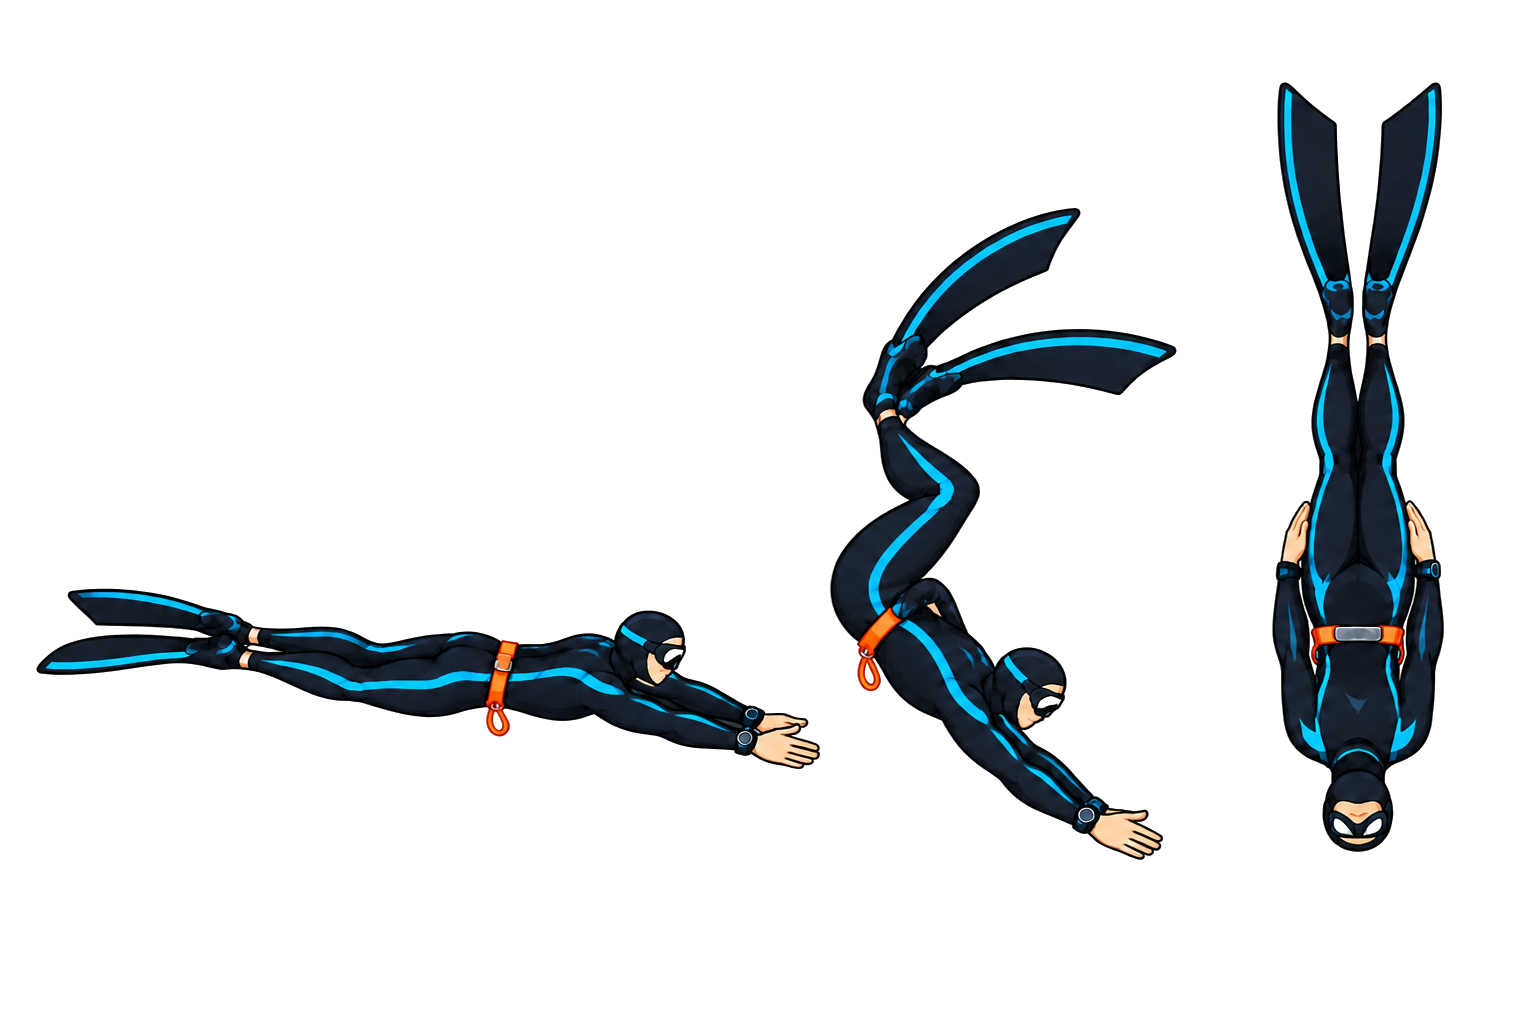
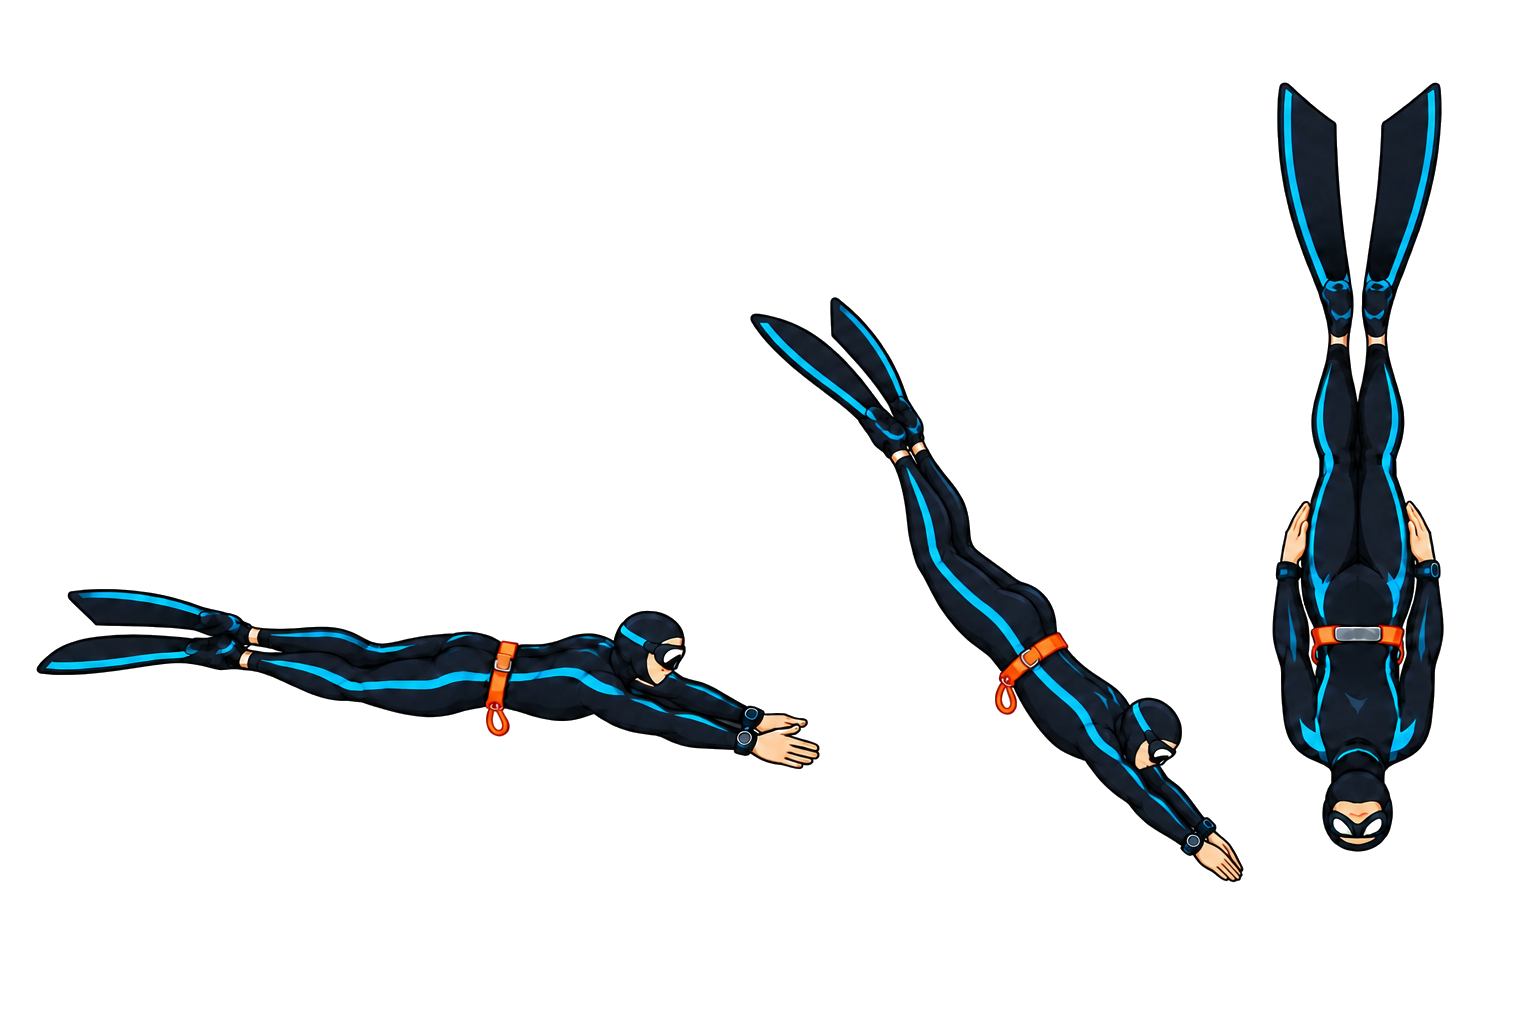
Refine duck dive and animate wildlife

diff --git a/README.md b/README.md
@@ -14,7 +14,7 @@ Deep Line is an arcade game. It is not a breath-hold trainer, dive computer or s
 
 ## Visual system
 
-The game uses short illustrated animation loops for the surface start, duck dive, descent, ascent, equalization and bottom turn, plus dedicated buoy, tag and depth-linked wildlife assets. A forage-fish school, green turtle and distant orca move behind the line at plausible points in the upper 20 m. Compact frames are loaded on 280 px MIP watches and larger frames on 390 px AMOLED watches.
+The game uses short illustrated animation loops for the surface start, duck dive, descent, ascent, equalization and bottom turn, plus dedicated buoy, tag and depth-linked wildlife assets. A forage-fish school, green turtle and distant orca move behind the line at plausible points in the upper 20 m, each with a subtle two-frame swim cycle. Compact frames are loaded on 280 px MIP watches and larger frames on 390 px AMOLED watches.
 
 Water uses a ten-step animated gradient on AMOLED and a palette-safe stepped teal gradient on 64-color MIP. Moving rays, drifting particles, surface waves, buoy bob, tag sway, line markers, timing rings and HUD elements stay code-drawn to keep memory and redraw cost predictable.
 
